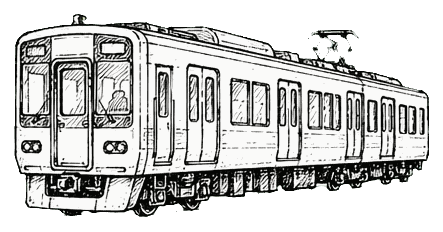
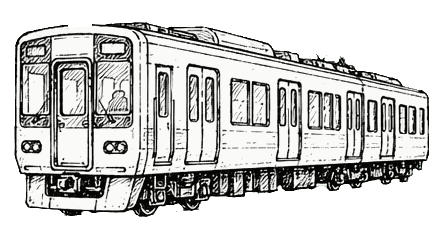
Panel fixes: fit-to-frame scaling, clean train/signal/umbrella sprites
- scaleScene now runs a fitRow pass: wide multi-object rows and price tags
  that hung past the object box (three-tag comparing scene, the くうこう bus
  tag) are shrunk to fit the stage width and re-centred across every subject
  on the line, so nothing clips at the edges. Crowded rows (3+) sit tighter.
- signal.png: removed the stray floating speck above the light; lower its
  scale so the light + arrow fit the turn-right scene.
- train.png: erased the cab antenna and the pantograph that read as a
  strange clip floating over the roof.
- umbrella.png: removed the detached hook to the right of the handle.
- May I sit here?: もち子 now faces the chair (flipHer).
- Welcome tour greeter no longer floats — grounded with a contact shadow.

Bump to v230.

Changed region(s): [[0.7043, 0.1207, 0.8217, 0.2414], [0.1467, 0.0603, 0.2054, 0.1207]]

diff --git a/interactive-learning.js b/interactive-learning.js
@@ -75,7 +75,7 @@
   const SCALE = {
     mochiko: 1, friend: 1, avatar: 1, friendchar: 1,
     station: 2.6, house: 2.1, town: 2.8, mountain: 2.9, sakura: 1.9,
-    boat: 2.2, train: 1.7, bus: 1.8, car: 1.35, signal: 1.7,
+    boat: 2.2, train: 1.7, bus: 1.8, car: 1.35, signal: 1.35,
     cow: 1.15, octopus: 0.5, cat: 0.6, whitecat: 0.6, dogface: 0.95, bird: 0.34,
     chair: 0.95, schooldesk: 1.0, table: 0.7,
     cup: 0.3, water: 0.32, coffee: 0.32, book: 0.3, bag: 0.5, sushi: 0.24,
@@ -115,9 +115,45 @@
         btn.classList.add("obj-scaled");
       });
       scene.querySelectorAll(".scene-mochiko").forEach((m) => { m.style.height = (H * 0.30) + "px"; });
+      fitRow(scene, objs);              // shrink + centre so nothing (incl. tags) clips the frame
     };
     requestAnimationFrame(apply);
     setTimeout(apply, 60);                            // re-apply once layout settles
+  }
+  // After sizing, make sure the whole row — objects PLUS their price tags and
+  // arrows, which stick out past the object box — fits inside the stage. Wide
+  // multi-item rows (three price tags) and edge tags (くうこう on the bus) were
+  // clipping; shrink to fit the width, then slide the row to re-centre the span.
+  function fitRow(scene, objs) {
+    const row = scene.querySelector(".ground-row");
+    if (!row) return;
+    const span = () => {
+      const sr = scene.getBoundingClientRect();
+      let minL = Infinity, maxR = -Infinity;
+      // measure EVERY thing on the line — objects, もち子/props, arrows, and the
+      // price tags that hang past an object's box — so centring keeps them all in
+      scene.querySelectorAll(".ground-row > *, .ground-row .obj-tag").forEach((n) => {
+        const r = n.getBoundingClientRect();
+        if (r.width < 1) return;
+        minL = Math.min(minL, r.left - sr.left);
+        maxR = Math.max(maxR, r.right - sr.left);
+      });
+      return { sr, minL, maxR };
+    };
+    row.style.transform = "";
+    const nObj = row.querySelectorAll(":scope > .story-obj").length;
+    if (nObj >= 3) row.style.gap = "3%";              // crowded rows sit tighter so items stay big
+    let { sr, minL, maxR } = span();
+    if (!isFinite(minL)) return;
+    const avail = sr.width * 0.94;
+    const cur = maxR - minL;
+    if (cur > avail) {                 // too wide → scale every object down to fit
+      const f = avail / cur;
+      objs.forEach((b) => { const h = parseFloat(b.style.height); if (h) b.style.height = (h * f) + "px"; });
+      ({ sr, minL, maxR } = span());
+    }
+    const off = sr.width / 2 - (minL + maxR) / 2;   // slide so the content span is centred
+    if (Math.abs(off) > 1) row.style.transform = "translateX(" + off + "px)";
   }
 
   // face close-ups fill the frame alone; small held/food/abstract items float
@@ -463,7 +499,7 @@
 
     // ---- Permission: ask before you sit -------------------------------------
     "permission": {
-      "May I sit here?": { id: "perm-chair", type: "ask", scene: "room", zone: "partner", object: "chair",
+      "May I sit here?": { id: "perm-chair", type: "ask", scene: "room", zone: "partner", object: "chair", flipHer: true,
         askLabel: "Ask her:", cta: "Ask →", feedback: "〜てもいいですか — you asked first.",
         instruction: "One empty chair, next to もち子",
         copy: "You'd like to sit. Tap the chair to ask if it's okay.",

diff --git a/index.html b/index.html
@@ -16,12 +16,12 @@
     <link rel="preconnect" href="https://fonts.googleapis.com" />
     <link rel="preconnect" href="https://fonts.gstatic.com" crossorigin />
     <link href="https://fonts.googleapis.com/css2?family=Mochiy+Pop+One&family=Zen+Maru+Gothic:wght@500;700;900&family=IBM+Plex+Mono:wght@500;600&family=Zen+Kaku+Gothic+New:wght@400;500;700&display=swap" rel="stylesheet" />
-    <link rel="stylesheet" href="styles.css?v=229" />
-    <link rel="stylesheet" href="theme.css?v=229" />
-    <link rel="stylesheet" href="ui-polish.css?v=229" />
-    <link rel="stylesheet" href="subway.css?v=229" />
-    <link rel="stylesheet" href="interactive-learning.css?v=229" />
-    <link rel="stylesheet" href="stampbook.css?v=229" />
+    <link rel="stylesheet" href="styles.css?v=230" />
+    <link rel="stylesheet" href="theme.css?v=230" />
+    <link rel="stylesheet" href="ui-polish.css?v=230" />
+    <link rel="stylesheet" href="subway.css?v=230" />
+    <link rel="stylesheet" href="interactive-learning.css?v=230" />
+    <link rel="stylesheet" href="stampbook.css?v=230" />
     <link rel="preload" as="image" href="assets/story/mochiko-think.png" />
   </head>
   <body>
@@ -425,14 +425,14 @@
       </footer>
     </main>
 
-    <script src="lessons.js?v=229"></script>
-    <script src="kana.js?v=229"></script>
-    <script src="emoji.js?v=229"></script>
-    <script src="app.js?v=229"></script>
-    <script src="interactive-learning.js?v=229"></script>
-    <script src="stampbook.js?v=229"></script>
-    <script src="theme.js?v=229"></script>
+    <script src="lessons.js?v=230"></script>
+    <script src="kana.js?v=230"></script>
+    <script src="emoji.js?v=230"></script>
+    <script src="app.js?v=230"></script>
+    <script src="interactive-learning.js?v=230"></script>
+    <script src="stampbook.js?v=230"></script>
+    <script src="theme.js?v=230"></script>
     <!-- collection.js (stamps) removed for now — owner, 2026-07 -->
-    <script src="ui-polish.js?v=229"></script>
+    <script src="ui-polish.js?v=230"></script>
   </body>
 </html>

diff --git a/interactive-learning.css b/interactive-learning.css
@@ -1060,8 +1060,14 @@ body.story-open .practice-nav { z-index: 4500; }
 .story-num.heard .num-kana-above { color: #2e7d5b; }
 
 /* onboarding tour panel art */
-.story-info-art { display: grid; place-items: center; padding: 1rem 0 1.2rem; }
-.story-info-art .obj-person-img { height: 110px; width: auto; }
+.story-info-art { position: relative; display: grid; place-items: end center; padding: 1.2rem 0 1.4rem; }
+.story-info-art .obj-person-img { height: 132px; width: auto; position: relative; z-index: 1; }
+/* a soft ground so the greeter stands on the floor instead of floating */
+.story-info-art::after {
+  content: ""; position: absolute; left: 50%; bottom: 1.0rem; transform: translateX(-50%);
+  width: 108px; height: 13px; border-radius: 50%;
+  background: radial-gradient(ellipse, rgba(31,45,77,0.22), transparent 72%);
+}
 
 /* night variant — beats set beat.night for moon / stars */
 .story-scene.night .scene-wall { background: linear-gradient(180deg, #27334f 0%, #58688a 88%); }

diff --git a/sw.js b/sw.js
@@ -1,6 +1,6 @@
 // Service worker — offline app shell for the Hanasou PWA.
 // Bump CACHE when the precached shell list changes to evict the old cache.
-const CACHE = "hanasou-v229";
+const CACHE = "hanasou-v230";
 const SHELL = [
   "./",
   "index.html",